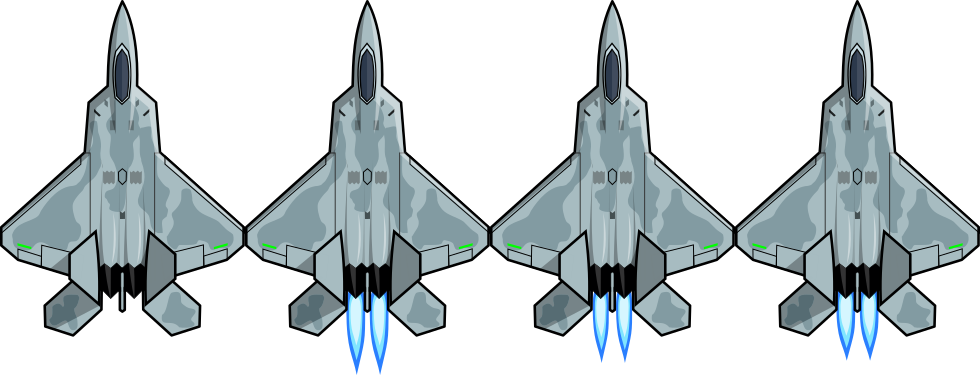
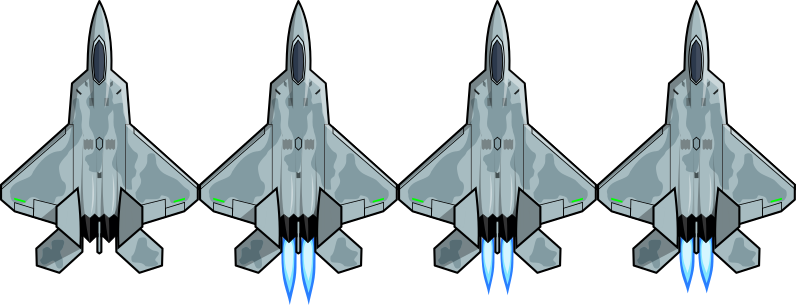
refactor(size): resize game objects

diff --git a/src/scenes/BattleScene.js b/src/scenes/BattleScene.js
@@ -2,15 +2,9 @@ import Phaser from "phaser";
 
 import Player from "../actors/Player";
 import Enemy from "../actors/Enemy";
-import Jet from "../objects/Jet";
 import Ground from "../objects/Ground";
 import Cloud from "../objects/Cloud";
-import {
-  WORLD_WIDTH,
-  WORLD_HEIGHT,
-  JET_WIDTH,
-  JET_HEIGHT,
-} from "../config/game";
+import { WORLD_WIDTH, WORLD_HEIGHT } from "../config/game";
 import createBoundsMask from "../helpers/createBoundsMask";
 import createRandomJet from "../helpers/createRandomJet";
 
@@ -37,7 +31,7 @@ export default class BattleScene extends Phaser.Scene {
 
     this.player = new Player(this, createRandomJet(this, true));
 
-    for (let i = 0; i < 20; i++) {
+    for (let i = 0; i < 10; i++) {
       this.enemies.push(new Enemy(this, createRandomJet(this)));
     }
 

diff --git a/src/objects/Jet.js b/src/objects/Jet.js
@@ -5,6 +5,9 @@ import HealthBar from "./HealthBar";
 import { JET_MAX_SPEED_ANIM, JET_MIN_SPEED_ANIM } from "../config/animations";
 import { JET_KEY } from "../config/keys";
 
+export const JET_WIDTH = 199;
+export const JET_HEIGHT = 305;
+
 export default class Jet extends Phaser.Physics.Arcade.Sprite {
   constructor(scene, x, y, isPlayer) {
     super(scene, x, y, JET_KEY);
@@ -21,7 +24,7 @@ export default class Jet extends Phaser.Physics.Arcade.Sprite {
     this.cannonsAxis = this.scene.add.rectangle(
       this.x,
       this.y,
-      80,
+      60,
       50,
       0xff0000
     );

diff --git a/src/scenes/BootScene.js b/src/scenes/BootScene.js
@@ -5,7 +5,7 @@ import jetSprite from "../assets/images/jet.png";
 import cloudImage from "../assets/images/cloud.png";
 import bulletImage from "../assets/images/bullet.png";
 import { JET_KEY, CLOUD_KEY, BULLET_KEY } from "../config/keys";
-import { JET_HEIGHT, JET_WIDTH } from "../config/game";
+import { JET_HEIGHT, JET_WIDTH } from "../objects/Jet";
 
 export default class BootScene extends Phaser.Scene {
   constructor() {

diff --git a/src/helpers/createRandomJet.js b/src/helpers/createRandomJet.js
@@ -1,12 +1,7 @@
 import Phaser, { Scene } from "phaser";
 
-import Jet from "../objects/Jet";
-import {
-  JET_WIDTH,
-  JET_HEIGHT,
-  WORLD_HEIGHT,
-  WORLD_WIDTH,
-} from "../config/game";
+import Jet, { JET_WIDTH, JET_HEIGHT } from "../objects/Jet";
+import { WORLD_HEIGHT, WORLD_WIDTH } from "../config/game";
 
 export default function createRandomJet(scene, isPlayer = false) {
   return new Jet(

diff --git a/src/config/game.js b/src/config/game.js
@@ -1,7 +1,7 @@
 export const MAX_VIEWPORT_WIDTH = 1280;
 export const OUTSIDE_COLOR = 0x00000;
-export const JET_WIDTH = 245;
-export const JET_HEIGHT = 375;
+
 export const WORLD_HEIGHT = 5000;
 export const WORLD_WIDTH = 5000;
+
 export const GROUND_COLOR = 0x89c0fb;

diff --git a/src/actors/Enemy.js b/src/actors/Enemy.js
@@ -6,8 +6,8 @@ export default class Enemy {
 
   update() {
     // Fake AI
-    this.jet.accelerateMinSpeed();
-    this.jet.turnLeft();
+    // this.jet.accelerateMinSpeed();
+    // this.jet.turnLeft();
     // this.jet.fireCannons();
     this.jet.update();
   }
